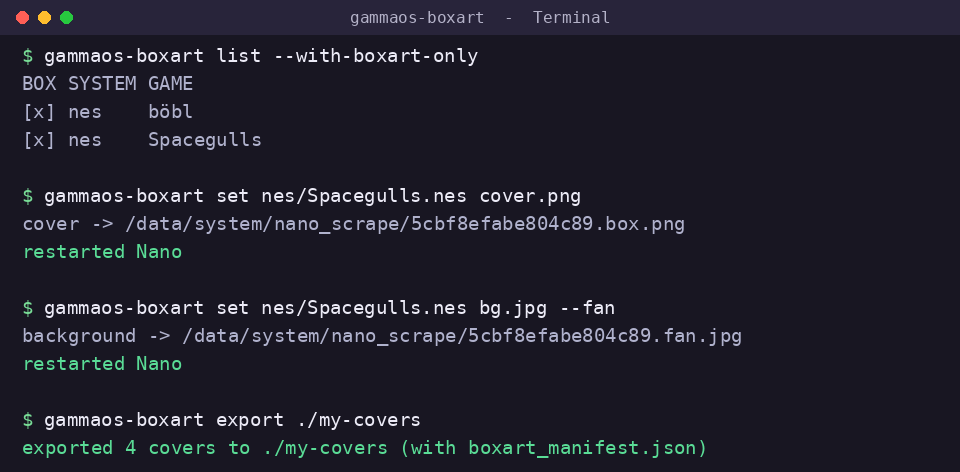
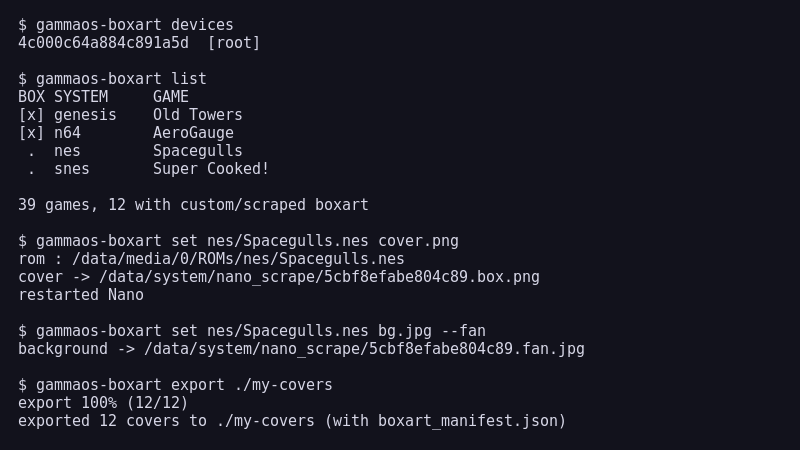
Refresh README screenshots for the current multi-source scraping UI
Update the hero GUI screenshot and the general CLI screenshot to reflect the tool as it is now (source selection, Scrape Selected, Search & Choose, region), and drop the redundant scrape-section GUI image in favour of the search-and-choose dialog shot.

Changed region(s): [[0.0, 0.0, 1.0, 0.8089], [0.0, 0.84, 0.75, 0.9644]]

diff --git a/README.md b/README.md
@@ -82,9 +82,7 @@ Every change pushes the image and restarts Nano so it shows immediately.
 
 ## Scrape art (ScreenScraper or TheGamesDB)
 
-Instead of hunting for images yourself, the tool can scrape covers and backgrounds from [ScreenScraper](https://screenscraper.fr) or [TheGamesDB](https://thegamesdb.net) on your PC and push them to the device. It matches games the same way GammaOS Nano does on-device (by CRC and filename per system), so you get the same results without loading down the handheld.
-
-![Scraping in the GUI](https://raw.githubusercontent.com/TheGammaSqueeze/GammaOS-BoxartTool/main/docs/scrape_gui.png)
+Instead of hunting for images yourself, the tool can scrape covers and backgrounds from [ScreenScraper](https://screenscraper.fr) or [TheGamesDB](https://thegamesdb.net) on your PC and push them to the device (the scrape controls are on the right of the main window, above). It matches games the same way GammaOS Nano does on-device (by CRC and filename per system), so you get the same results without loading down the handheld.
 
 - **Two sources, your choice.** ScreenScraper has GammaOS's developer account built in, so it works with no setup; TheGamesDB uses your own free API key. Set either under **Credentials...** (CLI: `--source`, `--ss-user`/`--ss-pass`, `--tgdb-key`). A personal ScreenScraper account is optional, for higher quota.
 - **Region defaults to World**, for the widest set of art and international titles (GUI dropdown, or `--region us|eu|jp|wor`).
